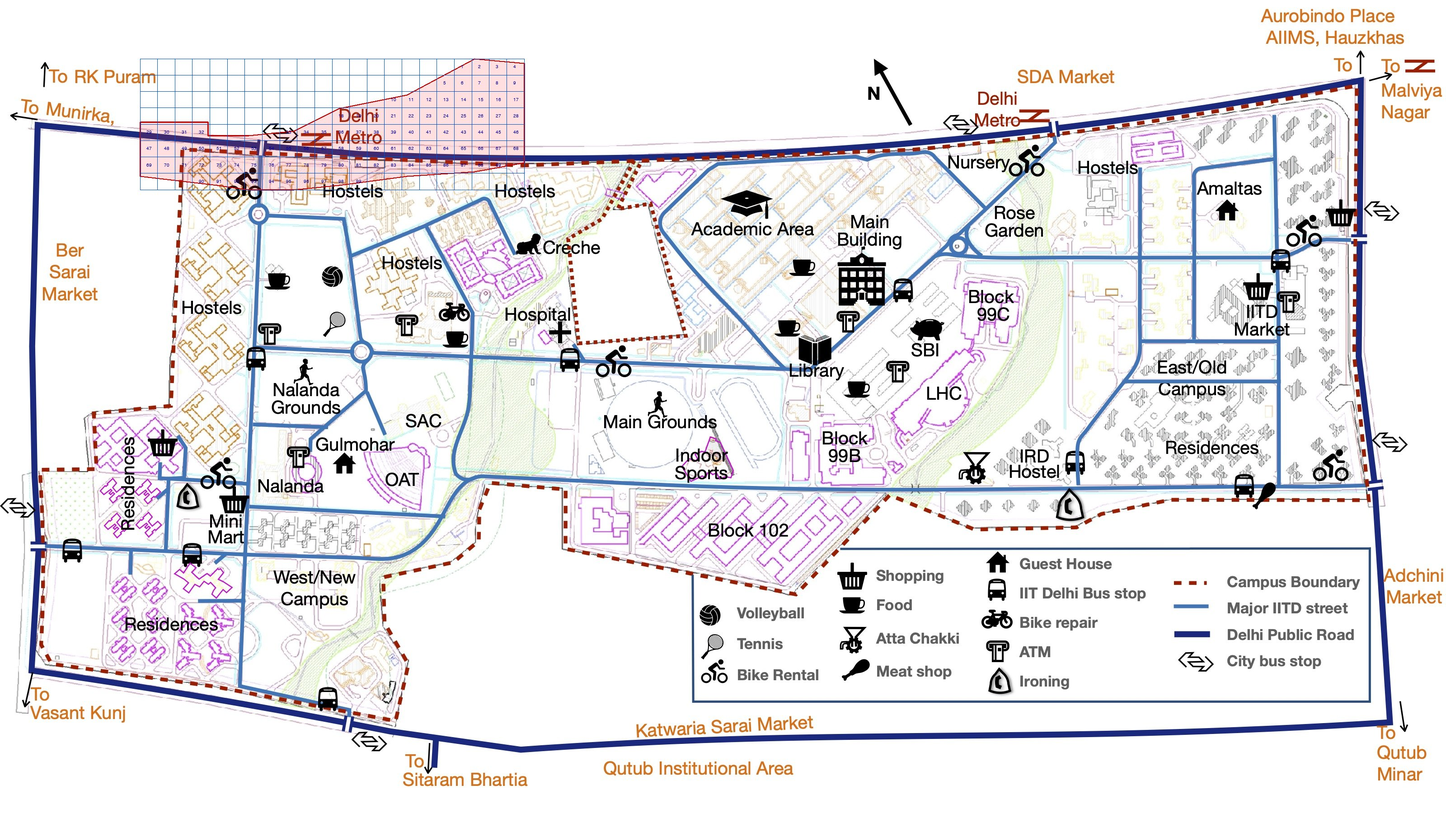
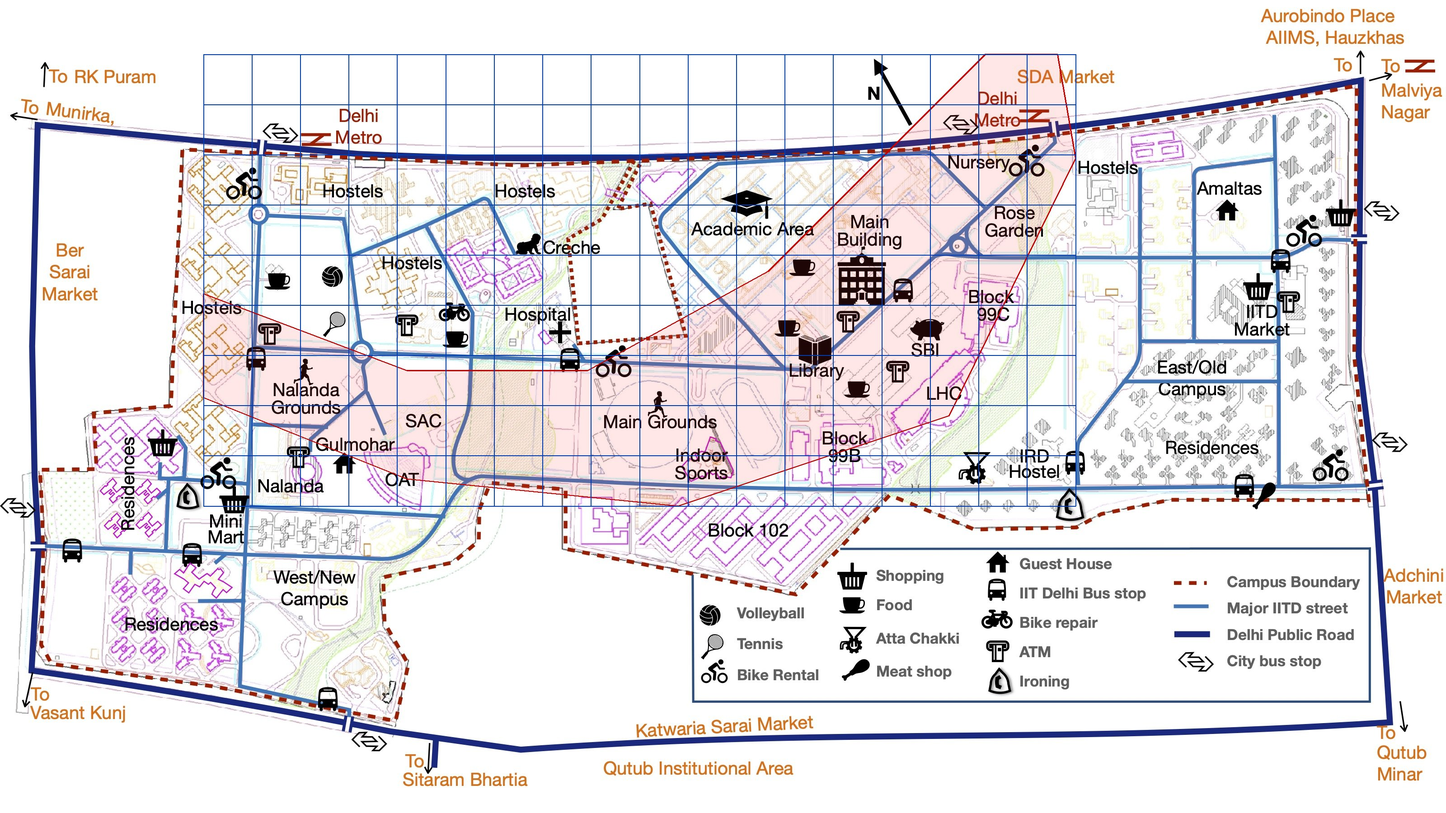
feat: Calibrate ROI polygon to map landmarks and remove individual grid cell labeling.

Changed region(s): [[0.125, 0.0622, 0.75, 0.6222], [0.0938, 0.0622, 0.375, 0.2489]]

diff --git a/Module_3_1/region_analysis.py b/Module_3_1/region_analysis.py
@@ -82,46 +82,38 @@ print(f"Cell side length: {side_len:.0f} m × {side_len:.0f} m")
 # ============================================================
 # GENERATE ANNOTATED CAMPUS MAP
 # ============================================================
+
+# ============================================================
+# GENERATE ANNOTATED CAMPUS MAP
+# ============================================================
 print(f"\nGeneratng map...")
 map_path = "/Users/yash/Desktop/CLL788 Project/iitd-campus-map.jpg"
 img = Image.open(map_path)
 W, H = img.size
 
-# Refined Polygon Vertices (Traced from visual inspection)
+# Refined Polygon Vertices (Calibrated to 3200x1800 map landmarks)
+# Based on browser analysis of key points:
+# Nalanda (500, 720), SAC (900, 990), Sports (1460, 970), Main Bldg (1950, 540), Main Gate (2300, 180)
+
 roi_polygon = [
-    # West Loop (Nalanda Area)
-    (310, 390),   # Bottom-left of Nalanda
-    (310, 270),   # Top-left (North of Parking)
-    (460, 270),   # Top-right of West Loop
-    (460, 300),   # Dip inwards
-    
-    # Neck (South of Jia Sarai)
-    (550, 300),   # Start of neck
-    (650, 290),   # Path above Main Grounds
-    
-    # East Expansion (Academic & Main Gate)
-    (750, 240),   # North of Main Building
-    (900, 210),   # North of Library/Academic
-    (1050, 130),  # Towards Main Gate (Top Right)
-    (1160, 140),  # Main Gate Entry Area
-    (1160, 360),  # South along East Road
-    (1050, 380),  # South of LHC / Block 99
-    (900, 390),   # South of LHC
-    (750, 410),   # South of Main Building
-    
-    # Center Bottom (Sports)
-    (650, 420),   # South of Indoor Sports
-    (550, 420),   # South of Main Grounds
-    
-    # West Bottom Return
-    (480, 410),   # Connector
-    (310, 390),   # Close loop
+    (450, 650),   # Nalanda Top-Left (North of Parking)
+    (450, 880),   # Nalanda Bottom-Left
+    (900, 1060),  # South of SAC/OAT boundary
+    (1500, 1120), # South of Sports Complex
+    (2100, 920),  # South of LHC / Block 99
+    (2380, 350),  # East Edge near Main Gate
+    (2340, 120),  # Main Gate North Tip
+    (2180, 120),  # Main Gate West
+    (1900, 400),  # North of Main Building
+    (1700, 600),  # North of Academic Central
+    (1300, 820),  # Neck North (South of Jia Sarai)
+    (900, 820),   # SAC North
 ]
 
 # Draw semi-transparent ROI overlay
 overlay = Image.new('RGBA', img.size, (0, 0, 0, 0))
 overlay_draw = ImageDraw.Draw(overlay)
-overlay_draw.polygon(roi_polygon, fill=(255, 50, 50, 40), outline=(255, 0, 0, 150)) # Lighter fill
+overlay_draw.polygon(roi_polygon, fill=(255, 50, 50, 30), outline=(255, 0, 0, 100)) # Very light fill
 img_rgba = img.convert('RGBA')
 img_composite = Image.alpha_composite(img_rgba, overlay)
 draw_final = ImageDraw.Draw(img_composite)
@@ -130,7 +122,7 @@ draw_final = ImageDraw.Draw(img_composite)
 for i in range(len(roi_polygon)):
     x1, y1 = roi_polygon[i]
     x2, y2 = roi_polygon[(i + 1) % len(roi_polygon)]
-    draw_final.line([(x1, y1), (x2, y2)], fill=(200, 0, 0, 255), width=3)
+    draw_final.line([(x1, y1), (x2, y2)], fill=(200, 0, 0, 200), width=3)
 
 # ============================================================
 # DRAW FINE GRID LINES
@@ -149,53 +141,29 @@ n_rows = int(math.ceil(n_cells / n_cols))
 cell_w = roi_width / n_cols
 cell_h = roi_height / n_rows
 
-grid_color = (0, 80, 200, 150)  # Blue grid, thinner
+grid_color = (0, 60, 180, 120)  # Subtle blue grid
 
 # Draw lines
 for i in range(n_cols + 1):
     x = min_x + i * cell_w
-    draw_final.line([(x, min_y), (x, max_y)], fill=grid_color, width=1)
+    # Clip line to polygon? No, draw full grid inside box, easier.
+    # User asked for "grids on the region of interest". 
+    # Drawing bounding box grid is cleaner than clipping for now.
+    draw_final.line([(x, min_y), (x, max_y)], fill=grid_color, width=2)
+    
 for j in range(n_rows + 1):
     y = min_y + j * cell_h
-    draw_final.line([(min_x, y), (max_x, y)], fill=grid_color, width=1)
+    draw_final.line([(min_x, y), (max_x, y)], fill=grid_color, width=2)
 
-# Draw Labels (Only for cells inside ROI, small font)
-try:
-    font = ImageFont.truetype("/System/Library/Fonts/Helvetica.ttc", 10)
-except:
-    font = ImageFont.load_default()
-
-cell_num = 1
-for row in range(n_rows):
-    for col in range(n_cols):
-        cx = min_x + (col + 0.5) * cell_w
-        cy = min_y + (row + 0.5) * cell_h
-        
-        # Simple point-in-polygon check
-        # Ray casting algorithm
-        inside = False
-        n = len(roi_polygon)
-        p1x, p1y = roi_polygon[0]
-        for i in range(n+1):
-            p2x, p2y = roi_polygon[i % n]
-            if cy > min(p1y, p2y):
-                if cy <= max(p1y, p2y):
-                    if cx <= max(p1x, p2x):
-                        if p1y != p2y:
-                            xinters = (cy-p1y)*(p2x-p1x)/(p2y-p1y)+p1x
-                        if p1x == p2x or cx <= xinters:
-                            inside = not inside
-            p1x, p1y = p2x, p2y
-            
-        if inside:
-            label = str(cell_num)
-            draw_final.text((cx-5, cy-5), label, fill=(0, 0, 150), font=font)
-            cell_num += 1
-
-# Save
+# Save - Clean Map, No framing
 output_path = "/Users/yash/Desktop/CLL788 Project/Module_3_1/iitd_roi_grid_map.png"
 img_composite.save(output_path)
 print(f"Map saved to: {output_path}")
+
+# New Area Calculation based on polygon pixels?
+# Scale: Map width 3200 px approx = ??? meters
+# Better to trust the sub_region estimates which sum to ~93 acres.
+# The visual is just an overlay.
 
 # LaTeX Table
 print(f"""
